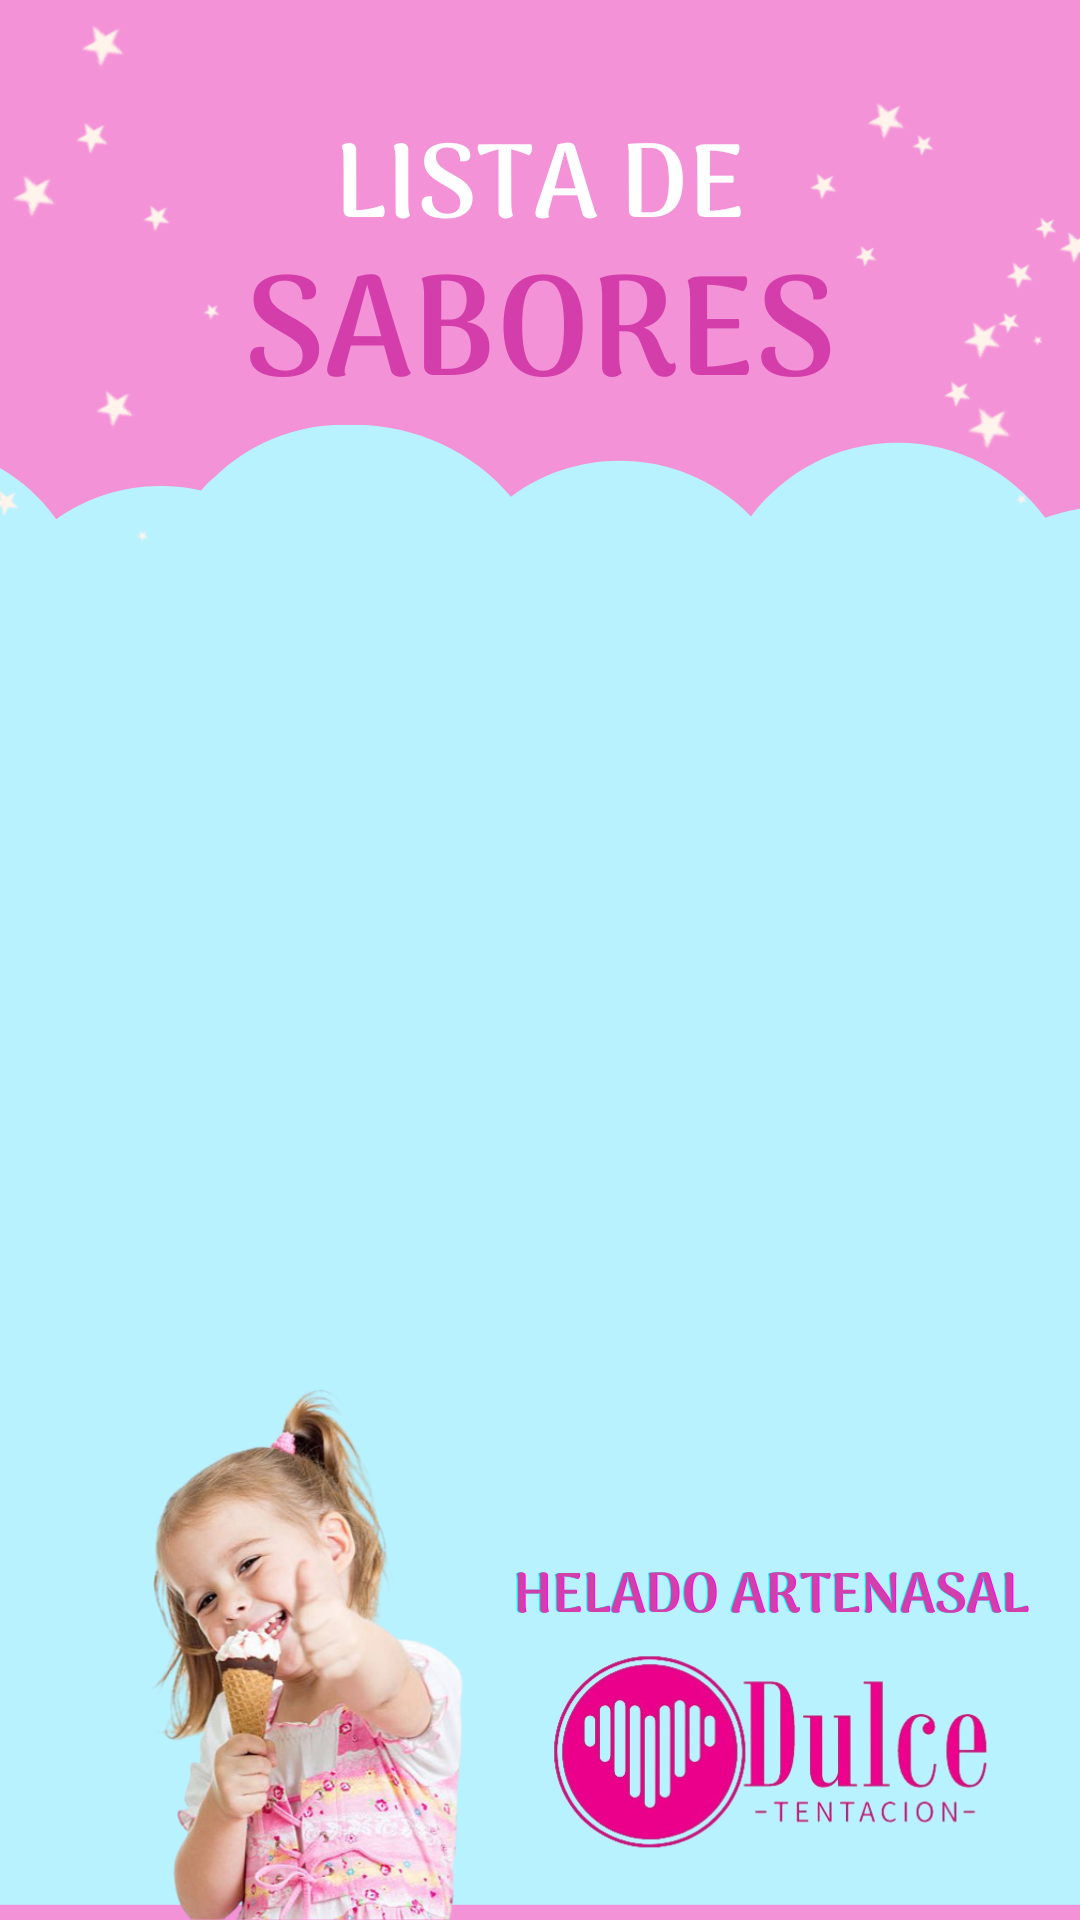
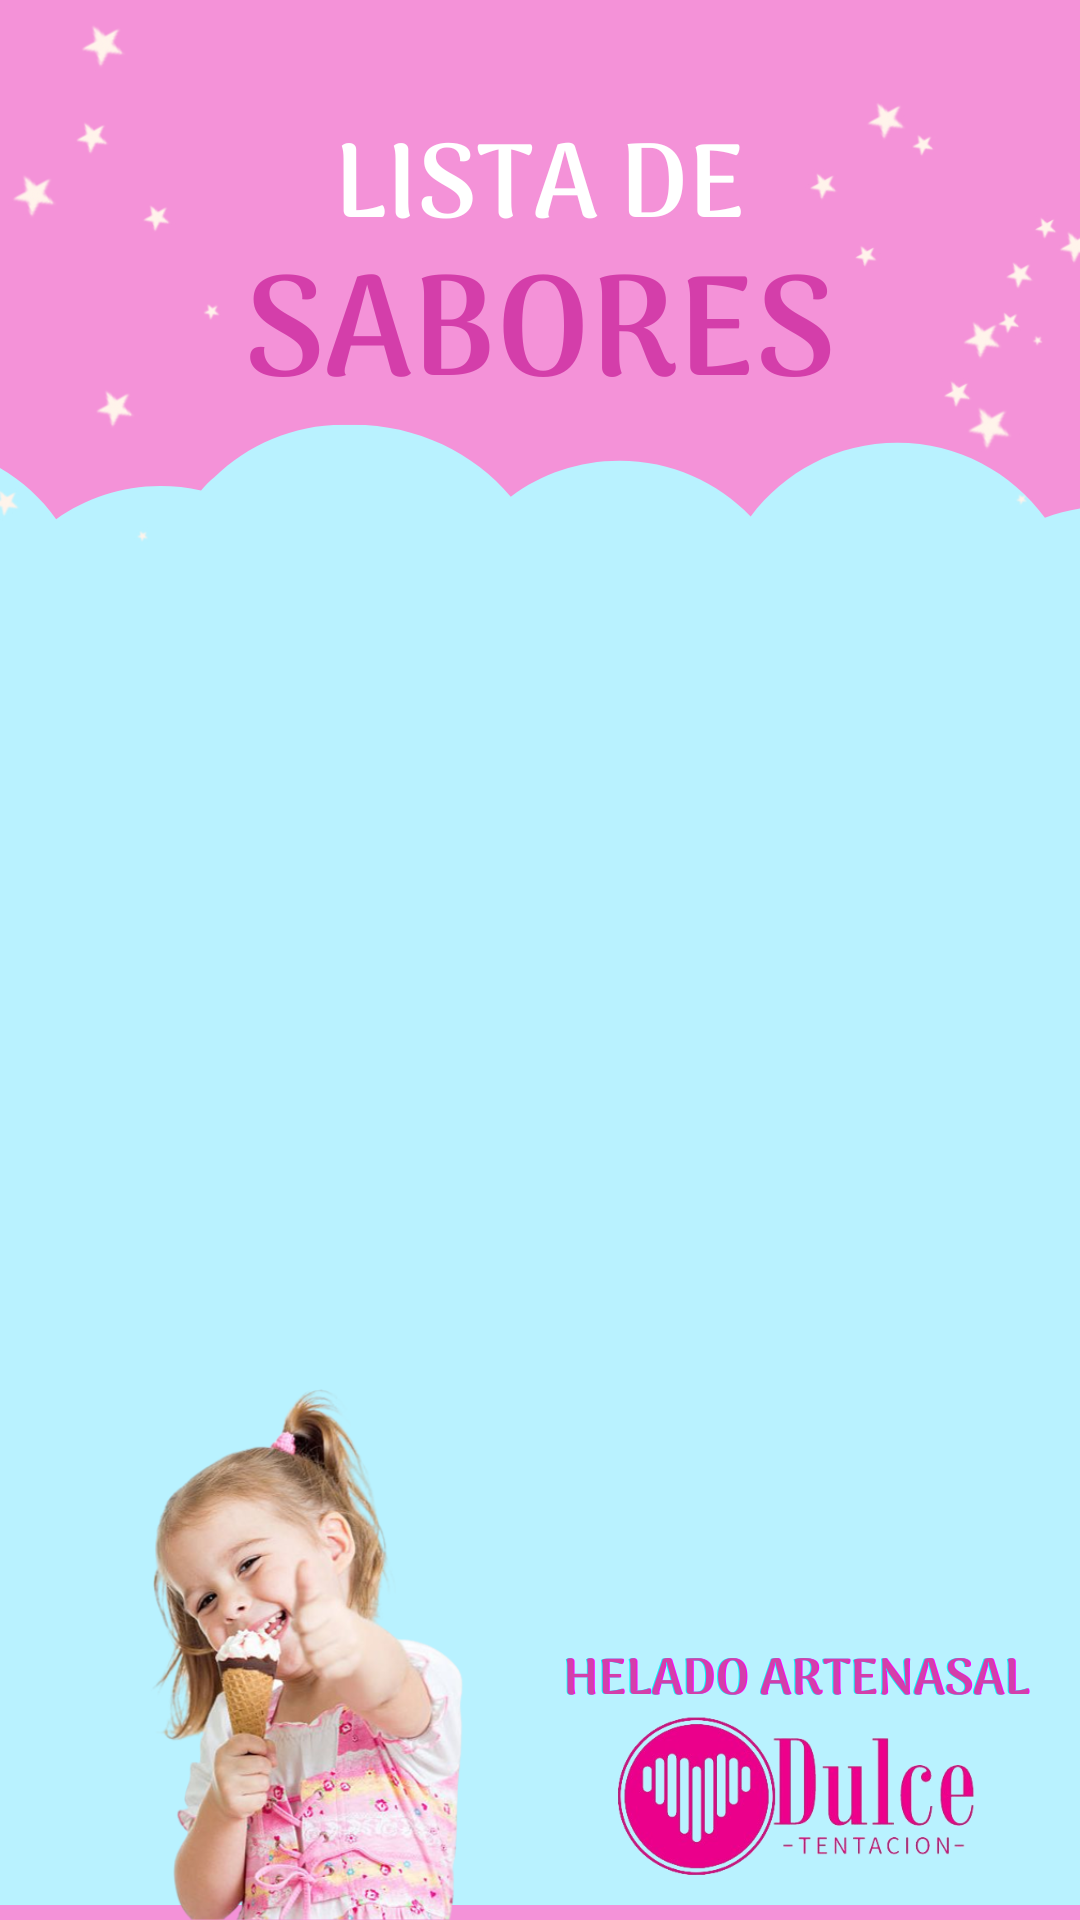
style: :lipstick: adjust button font weight in index.scss for improved aesthetics

Changed region(s): [[0.4583, 0.8125, 0.9472, 1.0]]

diff --git a/src/index.scss b/src/index.scss
@@ -678,7 +678,7 @@ button {
     display: grid;
     grid-template-columns: 1fr 1fr;
 
-    font-weight: bold;
+    font-weight: 500;
     letter-spacing: 0.3cqw;
     word-spacing: 0.5cqw;
     padding: 1cqw 3cqw;
